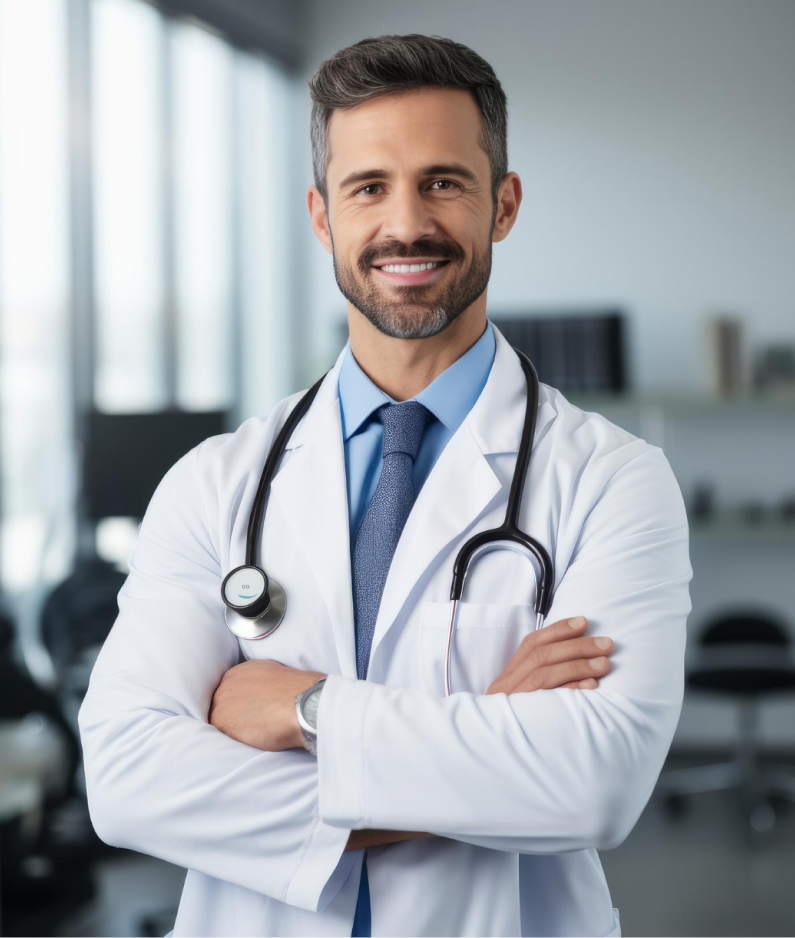
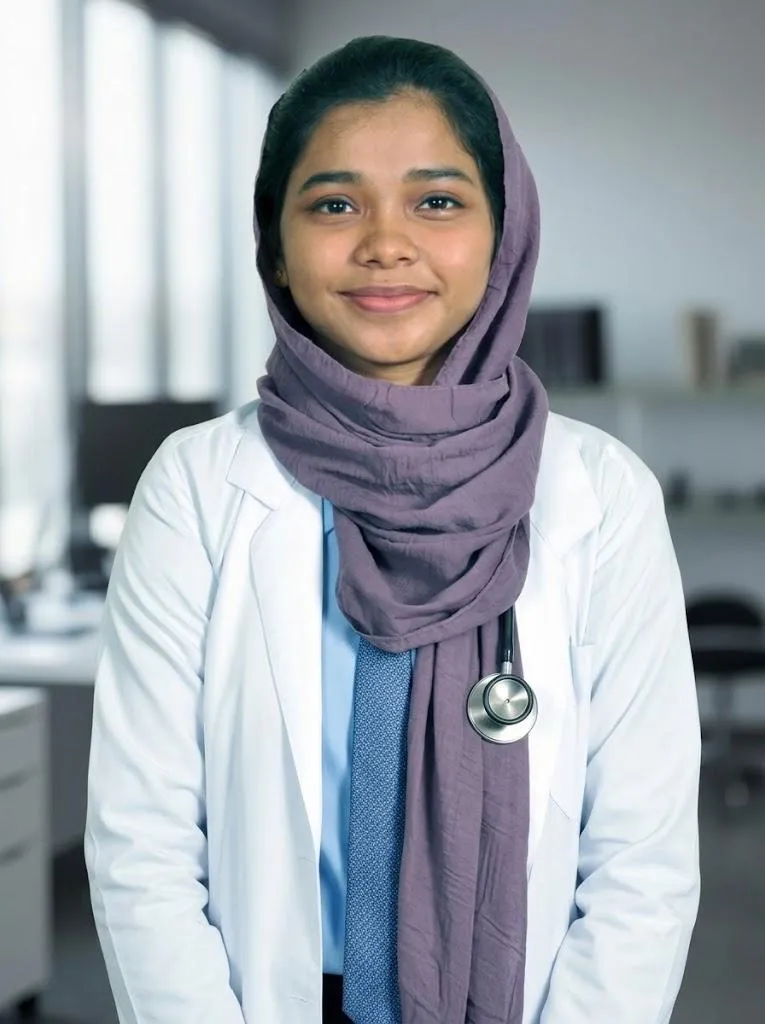
style: reduce hero image size to 115% and replace World Class section doctor image

diff --git a/public/assets/css/style.css b/public/assets/css/style.css
@@ -15531,7 +15531,7 @@ section {
   left: 50%;
   transform: translateX(-50%);
   z-index: 2;
-  height: 123%;
+  height: 115%;
   width: auto;
   max-width: none;
 }

diff --git a/public/assets/scss/components/_main-slider.scss b/public/assets/scss/components/_main-slider.scss
@@ -82,6 +82,9 @@
 				left: 50%;
 				transform: translateX(-50%);
 				z-index: 2;
+				height: 115%;
+				width: auto;
+				max-width: none;
 			}
 		}
 		.item1{
